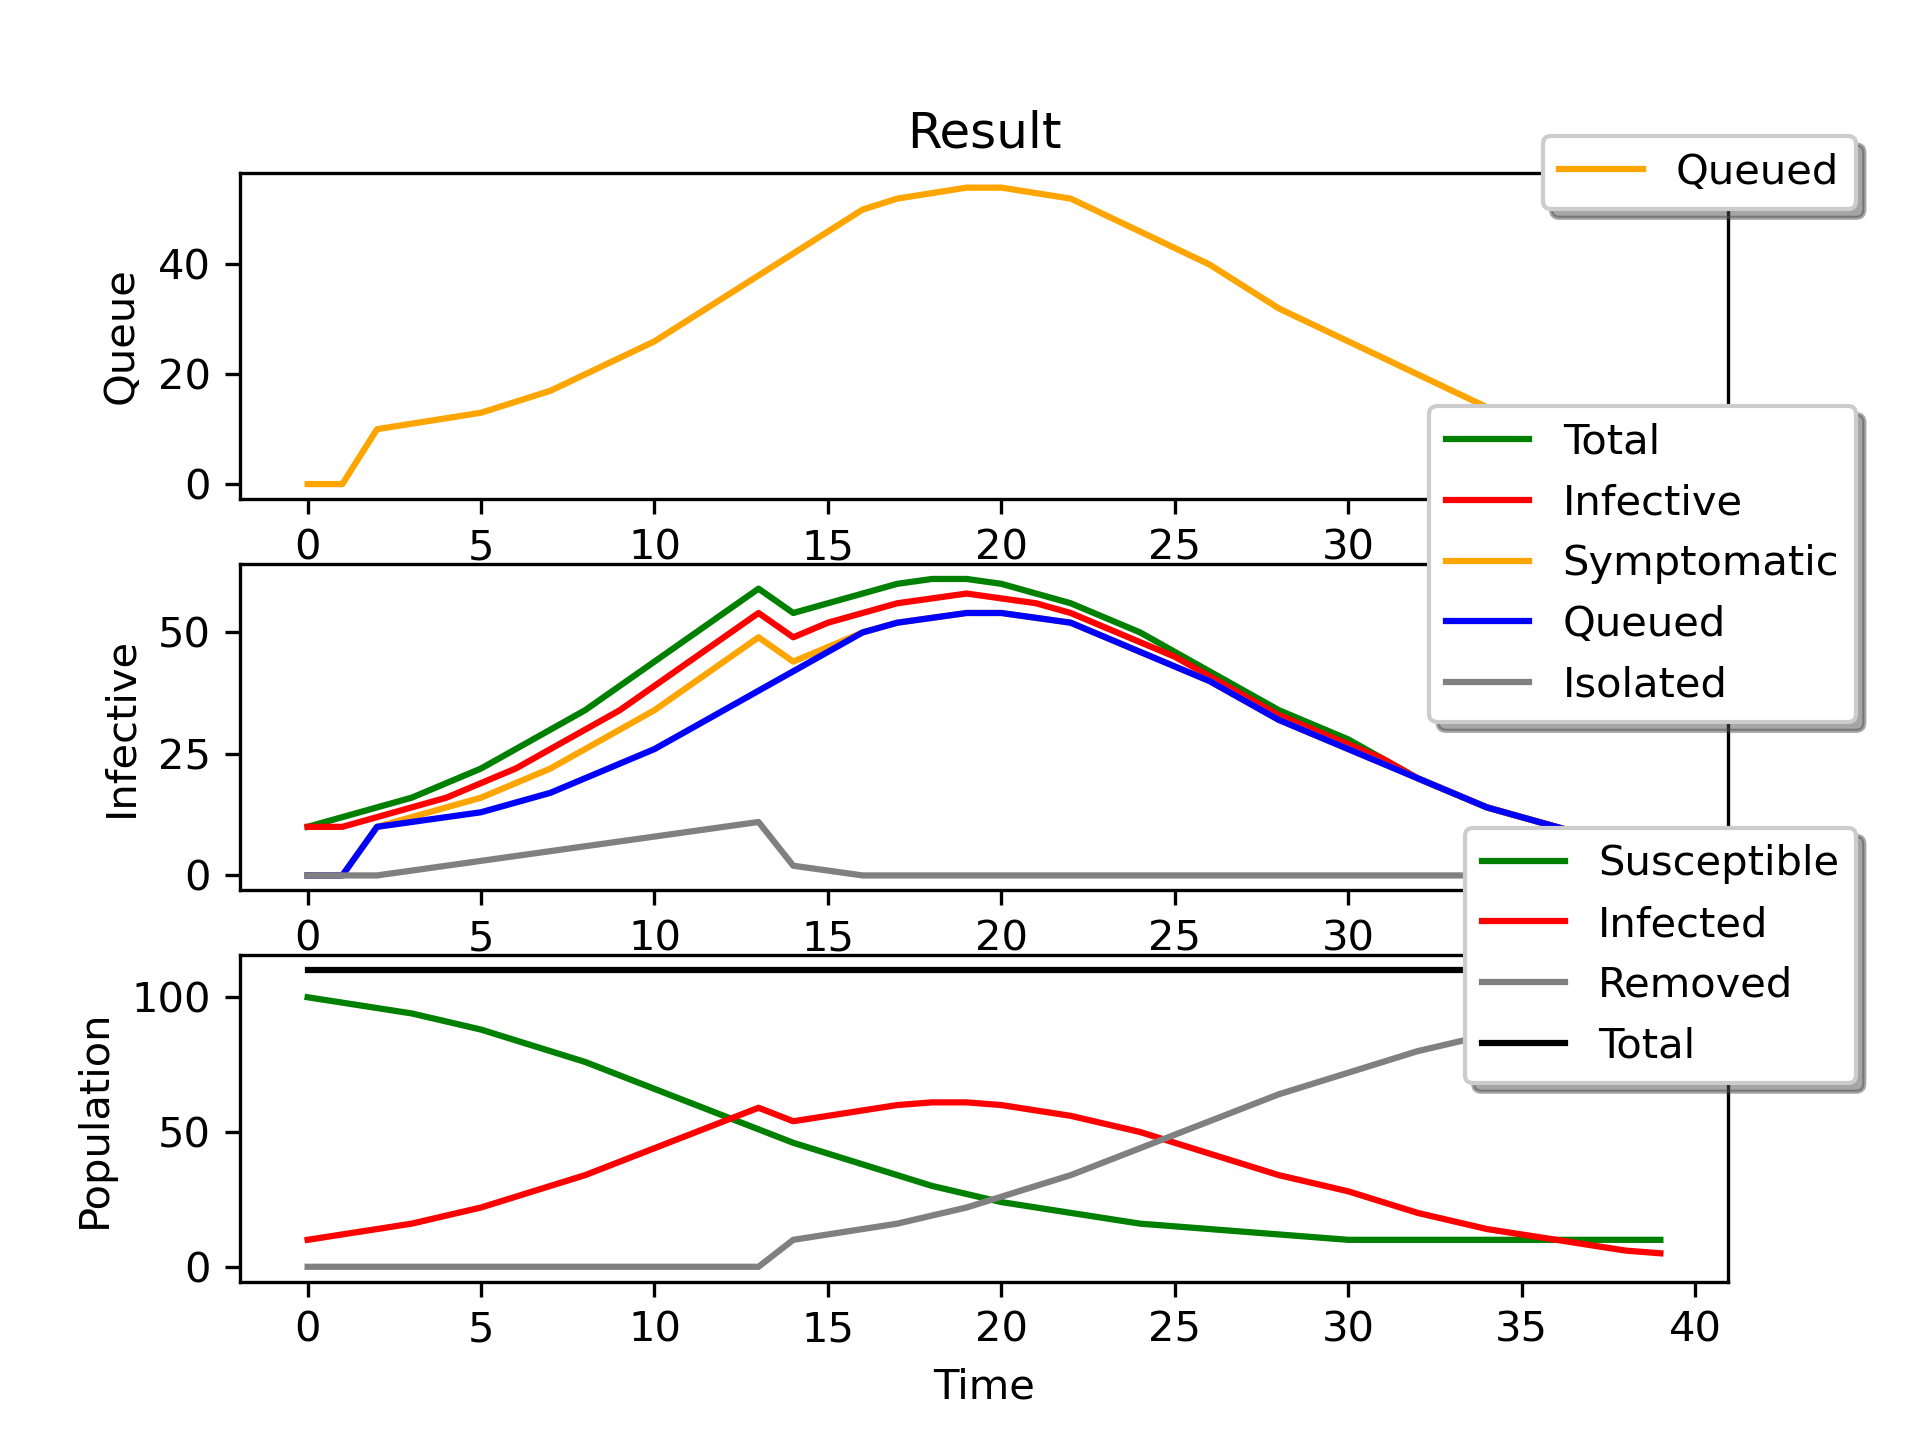
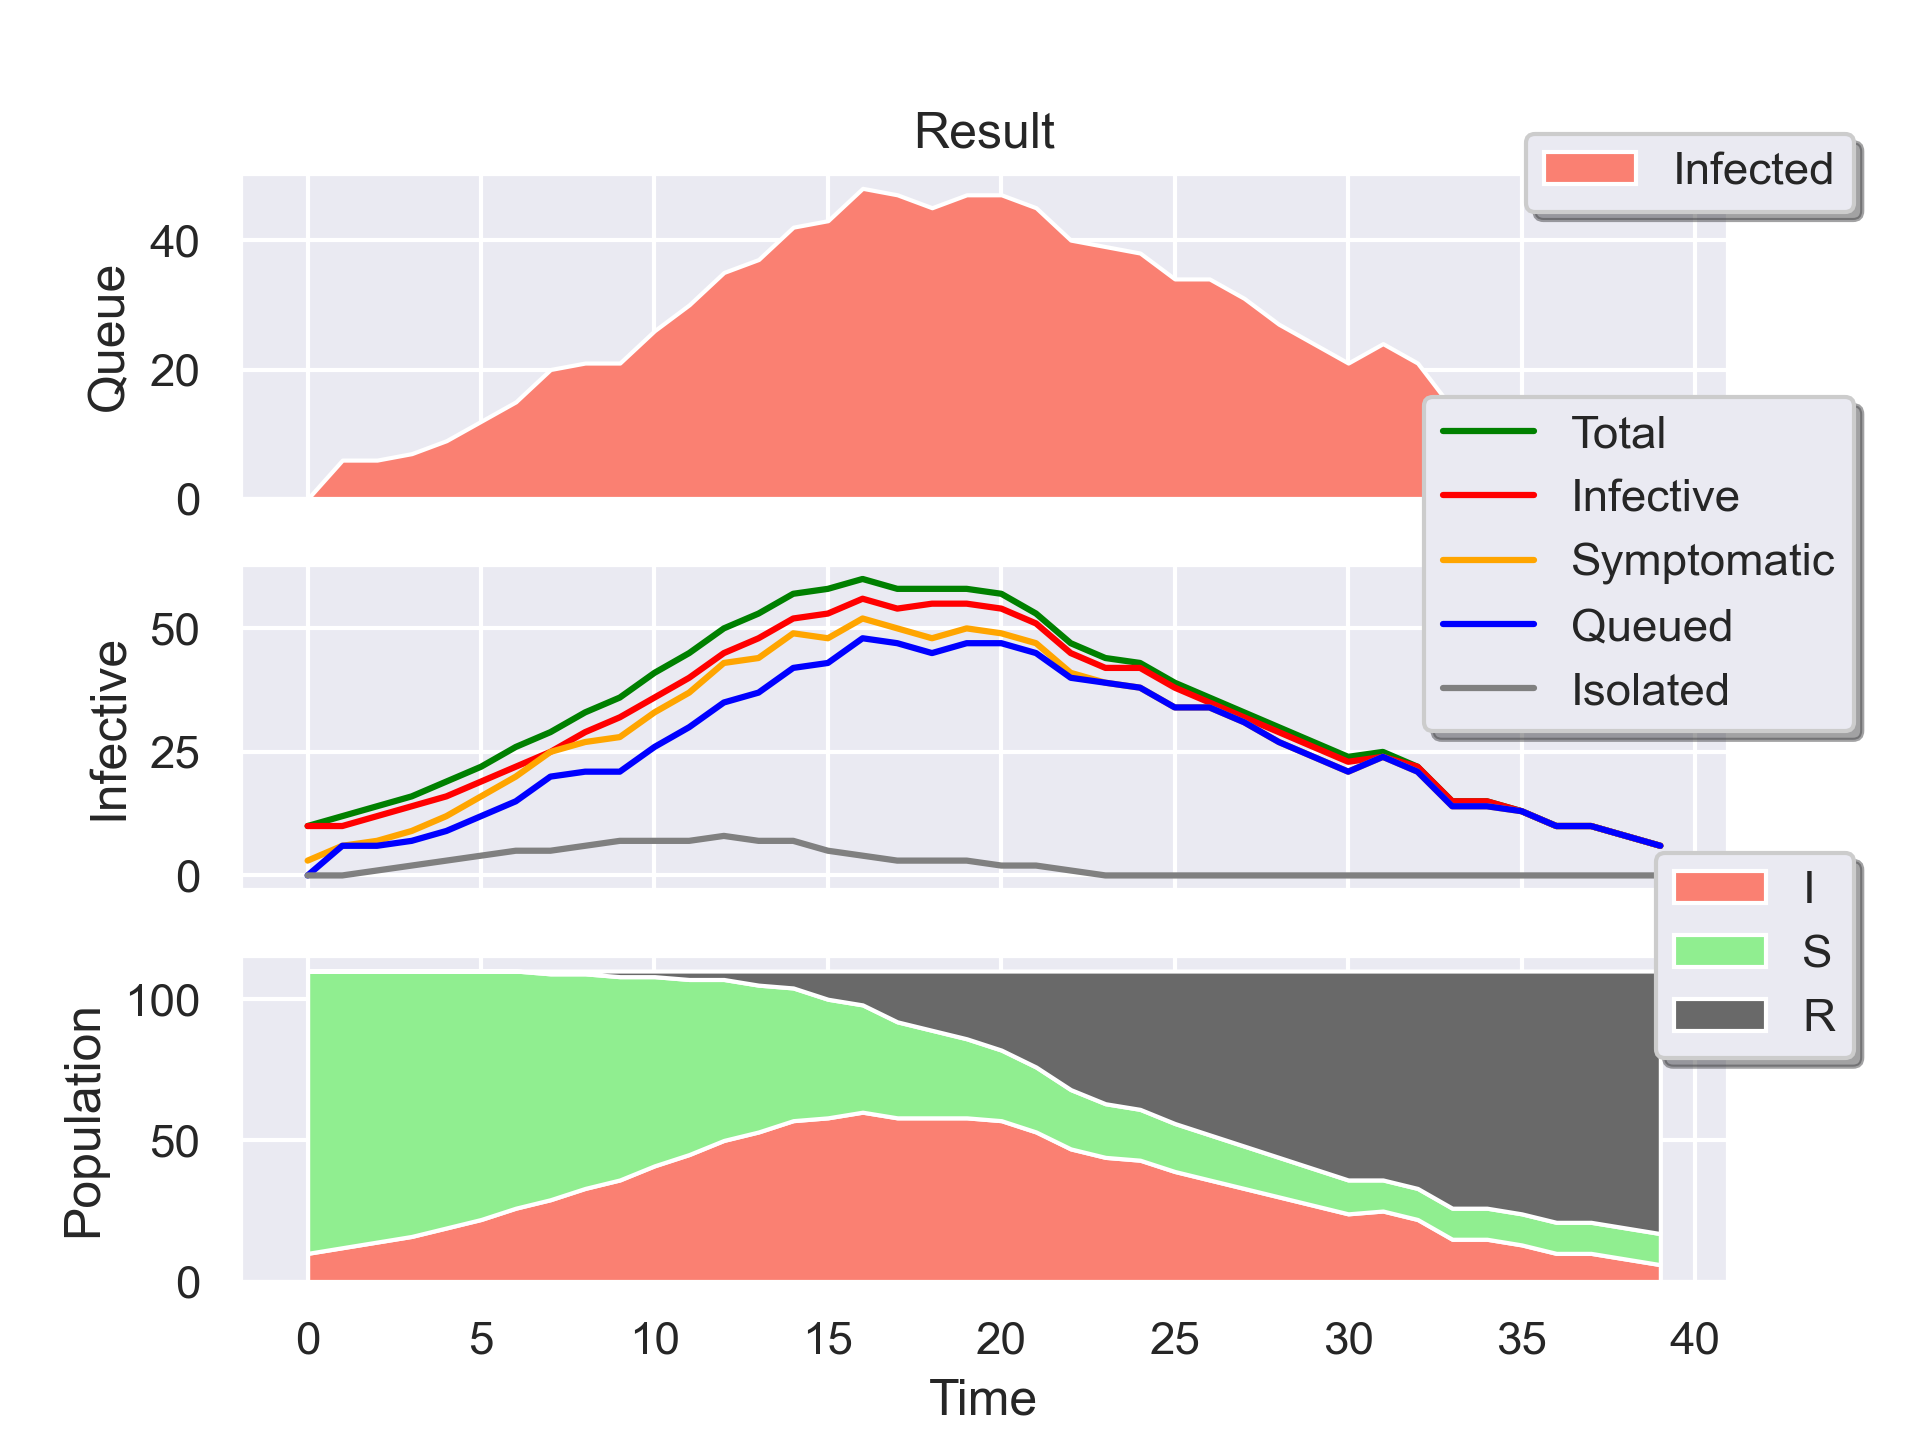
Stackplot, sns themed

diff --git a/model.py b/model.py
@@ -116,13 +116,23 @@ class Model:
             print('Error: Please call Model.run() before plotting.')
             return
 
+        sns.set_theme(style="darkgrid")
+
         plt.subplot(3, 1, 1)
-        plt.plot(self.Results['Time'],
-                 self.Results['InfectedQueued'], color='orange')
-        plt.legend(['Queued'],
-                   bbox_to_anchor=(1.1, 1), loc='right', ncol=1, fancybox=True, shadow=True)
+        plt.stackplot(self.Results['Time'],
+                      [self.Results['InfectedQueued']],
+                      labels=['Infected'], colors=['salmon'])
+        plt.legend(bbox_to_anchor=(1.1, 1), loc='right',
+                   ncol=1, fancybox=True, shadow=True)
         plt.ylabel('Queue')
         plt.title(title)
+        # Remove x-tick
+        plt.tick_params(
+            axis='x',
+            which='both',
+            bottom=False,
+            top=False,
+            labelbottom=False)
 
         plt.subplot(3, 1, 2)
         plt.plot(self.Results['Time'],
@@ -138,21 +148,24 @@ class Model:
         plt.ylabel('Infective')
         plt.legend(['Total', 'Infective', 'Symptomatic', 'Queued', 'Isolated'],
                    bbox_to_anchor=(1.1, 1), loc='right', ncol=1, fancybox=True, shadow=True)
+        # Remove x-tick
+        plt.tick_params(
+            axis='x',
+            which='both',
+            bottom=False,
+            top=False,
+            labelbottom=False)
 
         plt.subplot(3, 1, 3)
         # TODO: Stacking plot
-        plt.plot(self.Results['Time'],
-                 self.Results['Susceptible'], color='green')
-        plt.plot(self.Results['Time'],
-                 self.Results['Infected'], color='red')
-        plt.plot(self.Results['Time'],
-                 self.Results['Removed'], color='gray')
-        plt.plot(self.Results['Time'],
-                 np.sum([self.Results['Susceptible'], self.Results['Infected'], self.Results['Removed']], axis=0), color='black')
+        plt.stackplot(self.Results['Time'],
+                      [self.Results['Infected'], self.Results['Susceptible'],
+                       self.Results['Removed']], labels=['I', 'S', 'R'],
+                      colors=['salmon', 'lightgreen', 'dimgray'])
         plt.xlabel('Time')
         plt.ylabel('Population')
-        plt.legend(['Susceptible', 'Infected', 'Removed', 'Total'],
-                   bbox_to_anchor=(1.1, 1), loc='right', ncol=1, fancybox=True, shadow=True)
+        plt.legend(bbox_to_anchor=(1.1, 1), loc='right',
+                   ncol=1, fancybox=True, shadow=True)
         plt.savefig(fileName, dpi=300)
         plt.close()
         if openFile:

diff --git a/example_analysis.py b/example_analysis.py
@@ -1,7 +1,10 @@
+from matplotlib import rc
 import os
 from model import Model
 import matplotlib.pyplot as plt
-from matplotlib import rc
+import seaborn as sns
+sns.set_theme(style="darkgrid")
+
 rc('text', usetex=True)
 
 model1 = Model(rateSI=0.01)
